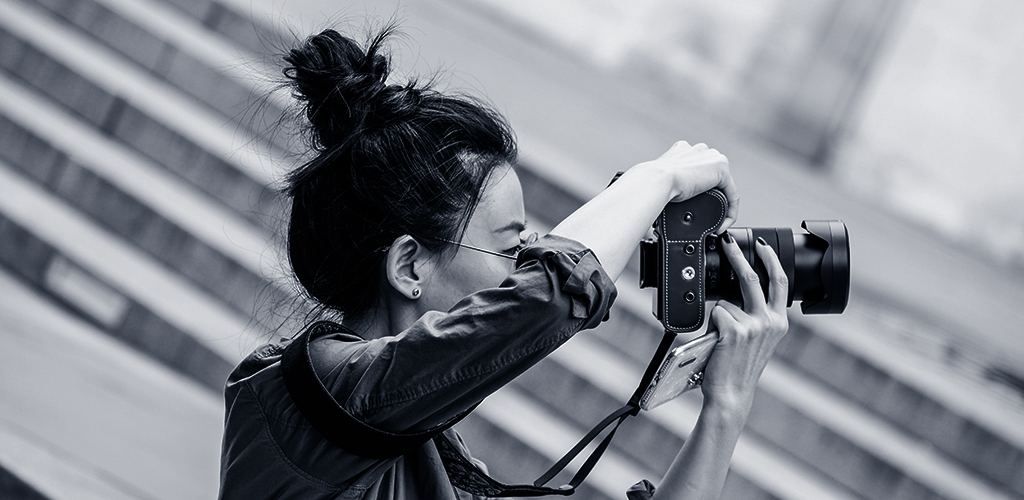
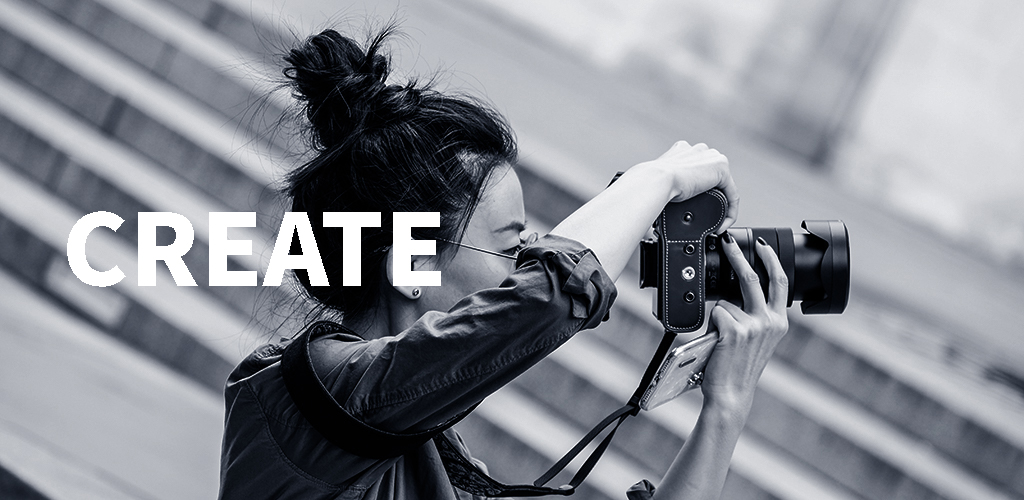
re-applying changes. home page almost finished just need to add media breakpoints. about me page cleaning up adding bios and photos

Changed region(s): [[0.0625, 0.42, 0.4375, 0.57]]

diff --git a/index.html b/index.html
@@ -7,6 +7,7 @@
   <meta name="viewport" content="width=device-width, initial-scale=1.0">
   <title>Artify</title>
   <!-- fonts -->
+
   <link href="https://fonts.googleapis.com/css?family=Pacifico&display=swap" rel="stylesheet">
   <link href="css/index.css" rel="stylesheet">
   <link href="css/carousel.css" rel="stylesheet">
@@ -25,7 +26,7 @@
       <!-- mobile dropdown header -->
       <div class="container">
         <h1>Artify</h1>
-        <div class="content"> 
+        <div class="content">
           <nav role="navigation">
             <div id="menuToggle">
               <input type="checkbox" />
@@ -48,10 +49,6 @@
     <!-- landing page  -->
     <div class="cta-wrap">
       <img src="img/photographer.jpg">
-      <div class="cta-text">
-        <p class="img-text"><b>Create</b></p>
-        <!-- <a href='#'></a><button class="signup-btn"> Log In</button> -->
-      </div>
     </div>
     <!-- mission statement, button for log in and sign up. -->
     <div class="mission-statement">
@@ -64,39 +61,43 @@
       </div>
     </div>
 
-  <div class="feature-title">
+    <div class="feature-title">
 
-            <h2 style="text-align: center">Features</h2>
+      <h2 style="text-align: center">Features</h2>
 
-          </div>
+    </div>
     <section class="features-container">
 
-       
-      
+
+
       <div class="feature-list">
 
-          <div class="feature">
-        <img id= feature-one src="images/carousel/img_3.jpg">
-        <p class="feature-info">*Login Page - After a user logs in, they'll be directed their portfolio page where they can create a "post". 
-          Each post needs to have an image, description and and upvote section to it. (Think instagram for artists).</p>
-      </div>
+        <div class="feature">
+          <img id=feature-one src="images/carousel/img_3.jpg">
+          <p class="feature-info">*Login Page - After a user logs in, they'll be directed their portfolio page where
+            they can create a "post".
+            Each post needs to have an image, description and and upvote section to it. (Think instagram for artists).</p>
+        </div>
 
-      <div class="feature">
-        <img src="images/carousel/img_3.jpg">
-        <p class="feature-info">*Navigation - Navigation is present on all pages, Users should know what page is active by clicking on a nav link and activating their tab.</p>
-      </div>
-
-      <div class="feature">
+        <div class="feature">
           <img src="images/carousel/img_3.jpg">
-          <p class="feature-info">*Create Post Page - Allows a user to come in and create a post of their artwork.</p> 
+          <p class="feature-info">*Navigation - Navigation is present on all pages, Users should know what page is
+            active by clicking on a nav link and activating their tab.</p>
+        </div>
+
+        <div class="feature">
+          <img src="images/carousel/img_3.jpg">
+          <p class="feature-info">*Create Post Page - Allows a user to come in and create a post of their artwork.</p>
           <p>*Edit Post Page - User can edit their post descriptions.</p>
         </div>
 
         <div class="feature">
-            <img src="images/carousel/img_3.jpg">
-            <p class="feature-info">
-            <p>*Home Page for non-logged in users - Navigating to the home page Users can view posts of different artists laid out in a single format. Users can click on a single post to read more of the description etc.</p>
-          </div>
+          <img src="images/carousel/img_3.jpg">
+          <p class="feature-info">
+            <p>*Home Page for non-logged in users - Navigating to the home page Users can view posts of different
+              artists laid out in a single format. Users can click on a single post to read more of the description
+              etc.</p>
+        </div>
 
       </div>
     </section>
@@ -106,29 +107,31 @@
       <!-- carousel -->
       <div class="carousel">
         <div class="slides_container">
-            <div id="playPause" onclick="playPauseSlides()"></div>
-            <div onclick="plusSlides(-1)" class="nextPrevBtn leftArrow"><span class="arrow arrowLeft"></span></div>
-            <div onclick="plusSlides(1)" class="nextPrevBtn rightArrow"><span class="arrow arrowRight"></span></div>
-            <div class="captionTextHolder"><p class="captionText slideTextFromTop"></p></div>
-            <div class="slide">
-                <img src="images/carousel/img_1.jpg">
-                <p class="captionText">Daniel Gorostieta - Pexels</p>
-            </div>
-            <div class="slide">
-                <img src="images/carousel/img_2.jpg">
-                <p class="captionText">Todd Trapani - Pexels</p>
-            </div>
-            <div class="slide">
-                <img src="images/carousel/img_3.jpg">
-                <p class="captionText">Shvets Anna - Pexels</p>
-            </div>
+          <div id="playPause" onclick="playPauseSlides()"></div>
+          <div onclick="plusSlides(-1)" class="nextPrevBtn leftArrow"><span class="arrow arrowLeft"></span></div>
+          <div onclick="plusSlides(1)" class="nextPrevBtn rightArrow"><span class="arrow arrowRight"></span></div>
+          <div class="captionTextHolder">
+            <p class="captionText slideTextFromTop"></p>
+          </div>
+          <div class="slide">
+            <img src="images/carousel/img_1.jpg">
+            <p class="captionText">Daniel Gorostieta - Pexels</p>
+          </div>
+          <div class="slide">
+            <img src="images/carousel/img_2.jpg">
+            <p class="captionText">Todd Trapani - Pexels</p>
+          </div>
+          <div class="slide">
+            <img src="images/carousel/img_3.jpg">
+            <p class="captionText">Shvets Anna - Pexels</p>
+          </div>
         </div>
         <div id="slides_nav"></div>
-    </div>
+      </div>
     </section>
     <footer class="footer">
-        <p> Copyright 2019 &copy;</p>
-    </footer> 
+      <p> Copyright 2019 &copy;</p>
+    </footer>
   </div>
   <script>
     const header = document.querySelector("header");
@@ -137,12 +140,12 @@
     header.style.width = "100%"
     header.style.zIndex = '1';
     header.style.top = "0"
-    header.style.boxShadow =  `0 1px 6px 0 rgba(32,33,36,0.28)`;
+    header.style.boxShadow = `0 1px 6px 0 rgba(32,33,36,0.28)`;
     container.style.marginTop = "100px";
-  </script> 
+  </script>
   <script src="js/carousel.js"></script>
-  <script src="js/footer.js"></script> 
- 
+  <script src="js/footer.js"></script>
+
 </body>
 
 </html>

diff --git a/css/index.css b/css/index.css
@@ -596,11 +596,14 @@ ul {
     Display: flex;
     flex-direction: row;
     width: 100%;
+    max-width: 1024px;
     height: 100%;
     justify-content: flex-end;
     align-items: center;
     background-color: white;
     /* position: fixed; */
+    padding: 20px;
+    margin: auto;
   }
   .content {
     width: 100%;
@@ -664,7 +667,7 @@ ul {
   }
   #menu {
     position: absolute;
-    width: 200px;
+    width: 250px;
     height: 400px;
     box-shadow: 0 0 16px #85888C;
     margin: -50px 0 0 -150px;
@@ -674,6 +677,10 @@ ul {
     transform-origin: 0% 0%;
     transform: translate(0, -100%);
     transition: transform 0.5s cubic-bezier(0.77,0.2,0.05,1.0);
+    border-top-right-radius: 5px;
+    border-top-left-radius:50px;
+    border-bottom-left-radius:5px;
+    border-bottom-right-radius: 50px;
   }
   #menu li {
     padding: 20px 0;
@@ -693,18 +700,21 @@ tablet, mobile
 
 /* cta content container - parent */
 .cta-wrap { /* cta img text container*/
-    position: relative;
-    display: inline-block;
-    padding: 1%;
-    border-top-right-radius: 5px;
-    border-top-left-radius:50px;
-    border-bottom-left-radius:5px;
-    border-bottom-right-radius: 50px;
-    box-shadow: 0 10px 16px 0 rgba(0,0,0,0.1);
-    /* center the div */
-    margin-left: 50%; /* From parent width */
-    transform: translateX(-50%); /* use self width which can be unknown */
-   -ms-transform: translateX(-50%); /* For IE9 */
+  display: flex;
+  width: 100%;
+  max-width: 1024px;
+  padding: 1%;
+  border-top-right-radius: 5px;
+  border-top-left-radius: 50px;
+  border-bottom-left-radius: 5px;
+  border-bottom-right-radius: 50px;
+  box-shadow: 0 4px 8px 0 rgba(0.8,0,0,0.2);
+  margin-left: 50%;
+  transform: translateX(-50%);
+  /* center the div */
+  margin-left: 50%; /* From parent width */
+  transform: translateX(-50%); /* use self width which can be unknown */
+  -ms-transform: translateX(-50%); /* For IE9 */
  
 }
 
@@ -713,21 +723,9 @@ tablet, mobile
   border-top-left-radius:50px;
   border-bottom-left-radius:5px;
   border-bottom-right-radius: 50px;
+  
 }
-/* text container. child */
-.cta-text {  
-    position: absolute;
-    z-index: 999;
-    margin: 0 auto;
-    left: 0;
-    right: 50%;
-    top: 30%;
-    width: 50%;
-}
-.img-text {
-    font-size: 72pt;
-    color: white;
-}
+
 
 /* mission statement container */
 .mission-statement {
@@ -753,8 +751,11 @@ tablet, mobile
     color: black;
     background-color: white;
     padding: 20px 50px;
-    border-radius: 5px;
-    font-size: 14pt;
+    border-top-right-radius: 5px;
+    border-top-left-radius:50px;
+    border-bottom-left-radius:5px;
+    border-bottom-right-radius: 50px;
+    font-size: 1.6em;
     box-shadow: 0 2px 10px 0 rgba(0,0,0,0.2);
 
 }
